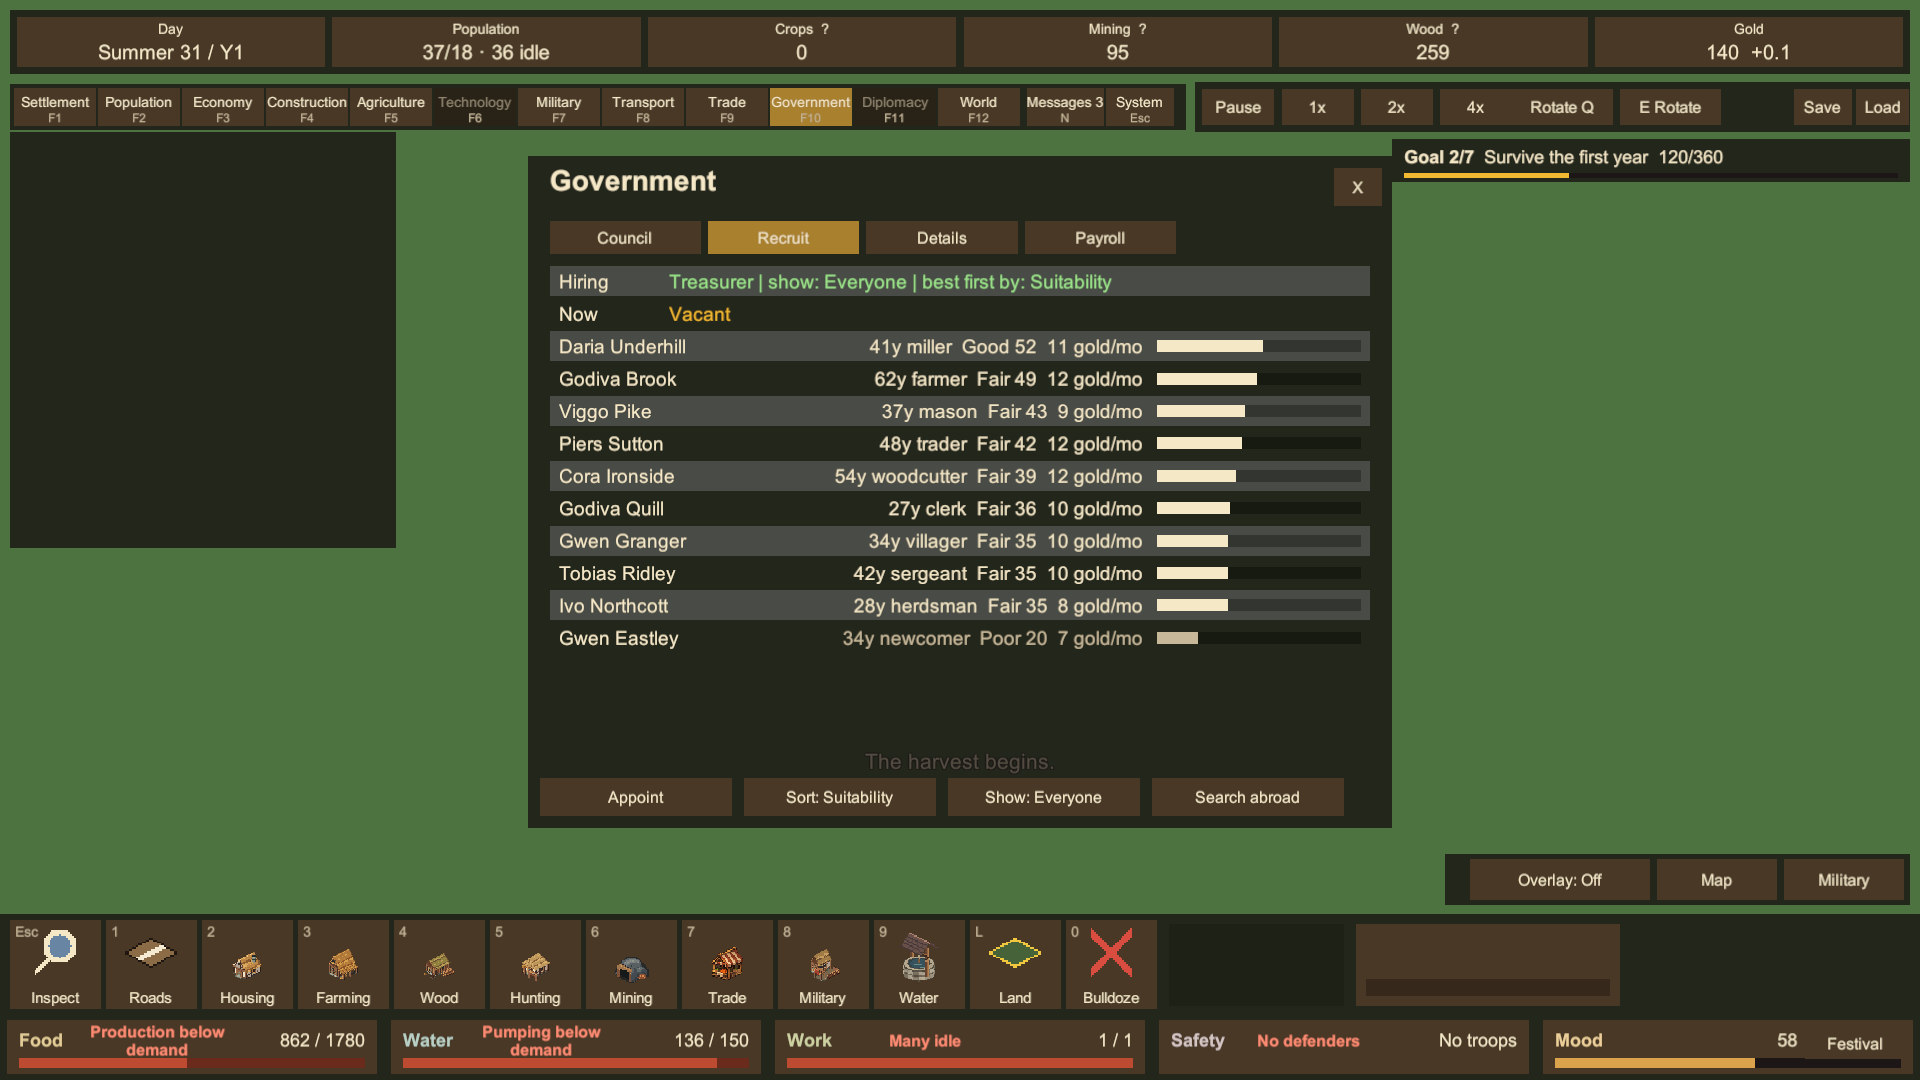
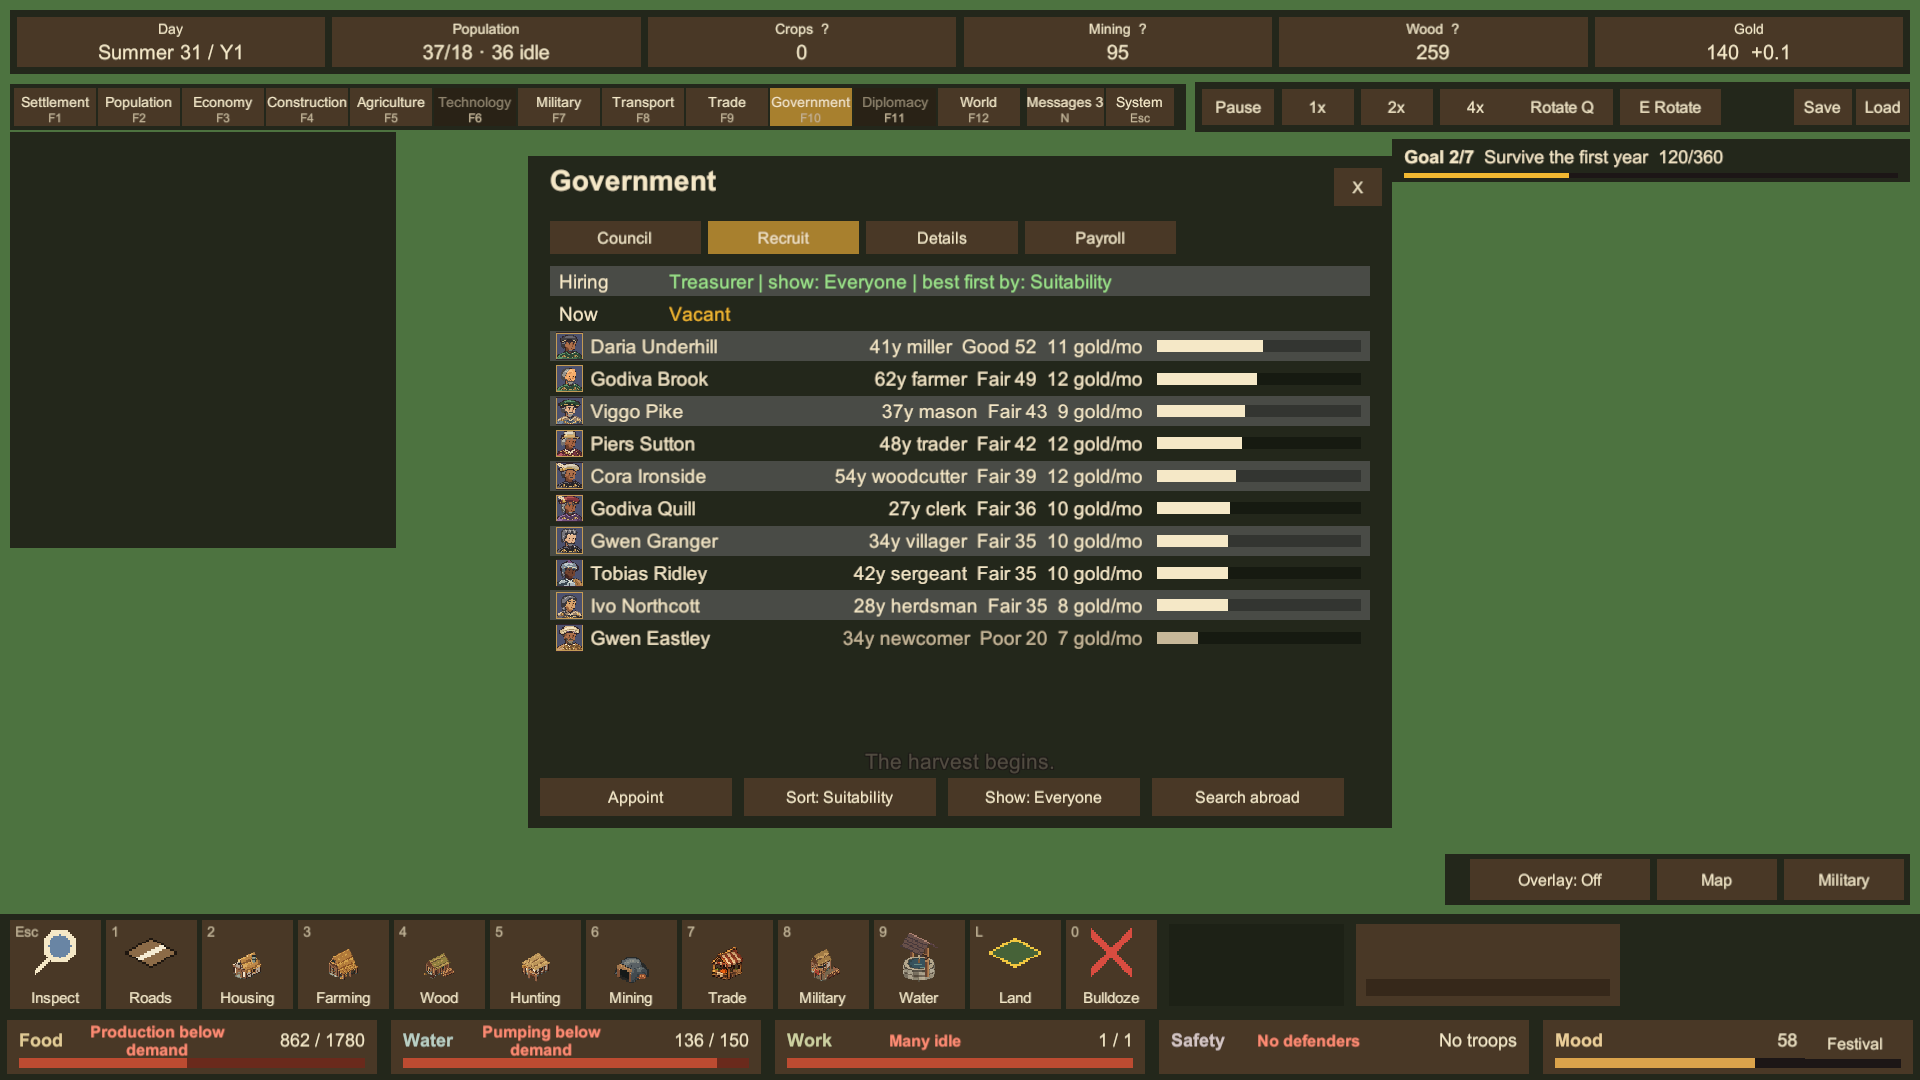
Fix management window rows ignoring clicks; portrait thumbnails in candidate rows

Changed region(s): [[0.2812, 0.3056, 0.375, 0.6111]]

diff --git a/unity/Assets/Scripts/Game/Hud.Management.cs b/unity/Assets/Scripts/Game/Hud.Management.cs
@@ -29,10 +29,21 @@ namespace CrownAndHearth.Game
         readonly List<Text> _mgmtFooterLabels = new List<Text>();
         readonly List<(RectTransform row, Text label, Text value, Image barBack, RectTransform barFill)> _mgmtRows = new List<(RectTransform, Text, Text, Image, RectTransform)>();
         readonly List<string> _mgmtRowIds = new List<string>();
+        readonly List<RawImage> _mgmtThumbs = new List<RawImage>();   // a small portrait at the left of a row that names a person
         readonly List<Action> _footerActions = new List<Action>();
         RectTransform _bannerPanel;
         readonly GovernmentUiState _gov = new GovernmentUiState();   // the Government menu's selection (GovernmentData.cs)
         RawImage _portrait; RectTransform _portraitFrame;
+
+        // test and tool access to the standard window (UiHarness)
+        public int GovernmentSelected => _gov.Selected;
+        public int ManagementRowCount => _mgmtRows.Count;
+        public RectTransform ManagementRow(int i) => _mgmtRows[i].row;
+        public string ManagementRowId(int i) => _mgmtRowIds[i];
+        public bool ManagementRowShown(int i) => _mgmtRows[i].row.gameObject.activeInHierarchy;
+        public Canvas HudCanvas => GetComponentInChildren<Canvas>();
+        public bool PortraitShown => _portraitFrame != null && _portraitFrame.gameObject.activeSelf;
+        public bool ManagementRowThumbShown(int i) => _mgmtThumbs[i].gameObject.activeSelf;
 
         /// <summary>Open the Government menu on a tab with a post and a person selected (links from reports and notices use this).</summary>
         public void OpenGovernment(int tab, Post post, int selected = 0)
@@ -95,7 +106,7 @@ namespace CrownAndHearth.Game
                 float top = -92 - r * 27;
                 row.anchorMin = new Vector2(0, 1); row.anchorMax = Vector2.one; row.offsetMin = new Vector2(18, top - 25); row.offsetMax = new Vector2(-18, top);
                 var back = new GameObject("Stripe", typeof(RectTransform), typeof(Image)).GetComponent<Image>(); back.transform.SetParent(row, false);
-                Stretch(back.rectTransform, Vector2.zero, Vector2.zero); back.color = new Color(1, 1, 1, r % 2 == 0 ? 0.05f : 0.0f); back.raycastTarget = false;
+                Stretch(back.rectTransform, Vector2.zero, Vector2.zero); back.color = new Color(1, 1, 1, r % 2 == 0 ? 0.05f : 0.0f); back.raycastTarget = true;   // the row's Button needs a graphic that takes clicks (it was false, so no row could ever be clicked)
                 int rowIdx = r; var rb = back.gameObject.AddComponent<Button>(); rb.transition = UnityEngine.UI.Selectable.Transition.None; rb.onClick.AddListener(() => RowClicked(rowIdx));
                 _mgmtRowIds.Add(null);
                 var label = MakeText(row, "Label", 16, TextAnchor.MiddleLeft); Stretch(label.rectTransform, new Vector2(8, 0), new Vector2(-8, 0));
@@ -105,6 +116,9 @@ namespace CrownAndHearth.Game
                 barBack.color = new Color(0, 0, 0, 0.5f); barBack.raycastTarget = false;
                 var fill = new GameObject("Fill", typeof(RectTransform), typeof(Image)).GetComponent<Image>(); fill.transform.SetParent(br, false);
                 fill.color = Pulse; fill.raycastTarget = false;
+                var thumb = new GameObject("Thumb", typeof(RectTransform), typeof(RawImage)).GetComponent<RawImage>(); thumb.transform.SetParent(row, false);
+                var thr = thumb.rectTransform; thr.anchorMin = thr.anchorMax = new Vector2(0, 0.5f); thr.pivot = new Vector2(0, 0.5f); thr.sizeDelta = new Vector2(23, 23); thr.anchoredPosition = new Vector2(5, 0);
+                thumb.raycastTarget = false; thumb.gameObject.SetActive(false); _mgmtThumbs.Add(thumb);
                 _mgmtRows.Add((row, label, value, barBack, fill.rectTransform));
             }
             _portraitFrame = MakePanel(_mgmtWin, "PortraitFrame", Vector2.one, Vector2.one, new Vector2(-130, -204), new Vector2(-22, -98));
@@ -391,6 +405,10 @@ namespace CrownAndHearth.Game
                 if (!has) continue;
                 var row = rows[r];
                 ui.label.text = row.Label; ui.value.text = row.Value;
+                var who = row.PortraitId != 0 ? w.Characters.Get(row.PortraitId) : null;   // portrait thumbnail (cached textures, drawn on first use)
+                var thumbTex = who != null ? CharacterPortraits.Texture(who, w.Day) : null;
+                _mgmtThumbs[r].gameObject.SetActive(thumbTex != null); if (thumbTex != null) _mgmtThumbs[r].texture = thumbTex;
+                ui.label.rectTransform.offsetMin = new Vector2(thumbTex != null ? 34 : 8, 0);
                 var col = row.Tone == Tone.Bad ? BadInk : row.Tone == Tone.Warn ? Pulse : row.Tone == Tone.Good ? new Color(0.62f, 0.9f, 0.55f) : row.Tone == Tone.Dim ? Dim : Ink;
                 ui.value.color = col;
                 bool wide = row.Wide;

diff --git a/unity/Assets/Scripts/Game/UiHarness.cs b/unity/Assets/Scripts/Game/UiHarness.cs
@@ -1,0 +1,64 @@
+// Drives the real Hud the way a mouse does, for tests and the screenshot tool: puts the canvas under a camera and clicks at a rectangle's centre
+// (finding what is under the point and running the click handler above it). If a row cannot be hit (its graphic ignores raycasts, or something
+// sits on top of it), this reports that instead of calling the handler directly.
+using System.Collections.Generic;
+using UnityEngine;
+using UnityEngine.EventSystems;
+using UnityEngine.UI;
+
+namespace CrownAndHearth.Game
+{
+    public sealed class UiClickResult
+    {
+        public string Hit;          // name of the topmost thing under the point, null if nothing
+        public bool Delivered;      // a click handler was found and run
+        public override string ToString() => $"hit={Hit ?? "nothing"} delivered={Delivered}";
+    }
+
+    public static class UiHarness
+    {
+        /// <summary>Put the Hud's canvas under a camera rendering into a texture of this size (what the screenshot tool does), so raycasts work without a window.</summary>
+        public static Camera Attach(GameObject hudRoot, int width, int height, float uiScale = 1f)
+        {
+            var canvas = hudRoot.GetComponentInChildren<Canvas>();
+            var camGo = new GameObject("UiHarnessCam"); var cam = camGo.AddComponent<Camera>();
+            cam.clearFlags = CameraClearFlags.SolidColor; cam.orthographic = true; cam.nearClipPlane = 0.1f; cam.farClipPlane = 10;
+            var rt = new RenderTexture(width, height, 24, RenderTextureFormat.ARGB32); cam.targetTexture = rt;
+            canvas.renderMode = RenderMode.ScreenSpaceCamera; canvas.worldCamera = cam; canvas.planeDistance = 1;
+            var scaler = canvas.GetComponent<CanvasScaler>();
+            scaler.uiScaleMode = CanvasScaler.ScaleMode.ConstantPixelSize;
+            scaler.scaleFactor = Mathf.Pow(2f, Mathf.Lerp(Mathf.Log(width / 1600f, 2f), Mathf.Log(height / 900f, 2f), 0.5f)) * uiScale;
+            Canvas.ForceUpdateCanvases(); LayoutRebuilder.ForceRebuildLayoutImmediate((RectTransform)canvas.transform); Canvas.ForceUpdateCanvases();
+            return cam;
+        }
+
+        public static void Detach(GameObject hudRoot, Camera cam)
+        {
+            if (cam == null) return;
+            var rt = cam.targetTexture; cam.targetTexture = null;
+            if (rt != null) Object.DestroyImmediate(rt);
+            Object.DestroyImmediate(cam.gameObject);
+            foreach (var es in Object.FindObjectsByType<EventSystem>(FindObjectsSortMode.None)) if (es.name == "UiHarnessEventSystem") Object.DestroyImmediate(es.gameObject);
+        }
+
+        /// <summary>Click at the centre of a rectangle the way the canvas's raycaster would: among the active graphics that take raycasts and contain the point, the one drawn last
+        /// (hierarchy order is draw order) is hit, and the click goes to the nearest handler at or above it. The real GraphicRaycaster only works once a rendering device has
+        /// ordered the canvas (its depth is -1 until then), so this repeats its rule over the same graphics; a row whose graphics ignore raycasts, or that something covers, is
+        /// reported as not delivered.</summary>
+        public static UiClickResult ClickCentre(Canvas canvas, Camera cam, RectTransform target)
+        {
+            var es = Object.FindFirstObjectByType<EventSystem>();
+            if (es == null) { var go = new GameObject("UiHarnessEventSystem", typeof(EventSystem)); es = go.GetComponent<EventSystem>(); }
+            Vector2 screen = RectTransformUtility.WorldToScreenPoint(cam, target.TransformPoint(target.rect.center));
+            var ped = new PointerEventData(es) { position = screen, button = PointerEventData.InputButton.Left, clickCount = 1 };
+            GameObject top = null;
+            foreach (var g in canvas.GetComponentsInChildren<Graphic>(false))   // pre-order: parents first, later siblings after earlier ones = draw order
+                if (g.raycastTarget && g.canvasRenderer != null && !g.canvasRenderer.cull && g.color.a >= 0f && RectTransformUtility.RectangleContainsScreenPoint(g.rectTransform, screen, cam)) top = g.gameObject;
+            var result = new UiClickResult { Hit = top != null ? top.name : null };
+            if (top == null) return result;
+            var handler = ExecuteEvents.GetEventHandler<IPointerClickHandler>(top);
+            if (handler != null) { ped.pointerPress = handler; ExecuteEvents.Execute(handler, ped, ExecuteEvents.pointerClickHandler); result.Delivered = true; }
+            return result;
+        }
+    }
+}

diff --git a/unity/Assets/Tests/EditMode/GovernmentClickTests.cs b/unity/Assets/Tests/EditMode/GovernmentClickTests.cs
@@ -1,0 +1,73 @@
+using System.Collections.Generic;
+using System.Linq;
+using CrownAndHearth.Game;
+using CrownAndHearth.Game.UI;
+using CrownAndHearth.Sim;
+using NUnit.Framework;
+using UnityEngine;
+
+namespace CrownAndHearth.Tests
+{
+    // Clicks go through the real Hud: its canvas's GraphicRaycaster finds what is under the point and the click handler it finds runs (UiHarness).
+    public class GovernmentClickTests
+    {
+        GameObject _go; Hud _hud; Camera _cam; World _w;
+
+        [SetUp]
+        public void Up()
+        {
+            _w = new World(3, TerrainStyle.Ranges, Relief.Upland, WaterPreset.Lakeside); _w.StartCampaign(); _w.Tick(); _w.Era = 3; _w.ResAmt[Res.Gold] = 500;
+            for (int i = 0; i < 8; i++) _w.Characters.Add(CharacterGenerator.Create(_w.Characters.NextId, _w.CharacterPool(), 7000 + i, _w.Day, (Background)(i % 7), 25, 55));
+            _go = new GameObject("HudClickTest"); _hud = _go.AddComponent<Hud>();
+            _hud.Build(GameController.Tools, GameController.Cats, new ArtLibrary());
+            _hud.SetSettlement(_w);
+            _hud.RefreshWorkforce(_w); _hud.RefreshTownMenus(_w);   // the game does these every frame
+            _cam = UiHarness.Attach(_go, 1920, 1080);
+        }
+
+        [TearDown]
+        public void Down() { UiHarness.Detach(_go, _cam); Object.DestroyImmediate(_go); }
+
+        int FirstRow(string prefix)
+        {
+            for (int i = 0; i < _hud.ManagementRowCount; i++)
+                if (_hud.ManagementRowShown(i) && _hud.ManagementRowId(i) != null && _hud.ManagementRowId(i).StartsWith(prefix)) return i;
+            return -1;
+        }
+
+        [Test]
+        public void ClickingACandidateRowSelectsThemAndOpensTheirDetails()
+        {
+            _hud.OpenGovernment(1, Post.Treasurer); _hud.SetSettlement(_w);
+            int row = FirstRow("gov:cand:"); Assert.That(row, Is.GreaterThanOrEqualTo(0), "the Recruit tab lists candidates");
+            int id = int.Parse(_hud.ManagementRowId(row).Substring("gov:cand:".Length));
+            Assert.That(_hud.ManagementRowThumbShown(row), Is.True, "each candidate row carries a portrait thumbnail");
+            var res = UiHarness.ClickCentre(_hud.HudCanvas, _cam, _hud.ManagementRow(row));
+            Assert.That(res.Delivered, Is.True, "a click on the row reaches a handler: " + res);
+            _hud.SetSettlement(_w);
+            Assert.That(_hud.GovernmentSelected, Is.EqualTo(id));
+            Assert.That(_hud.UI.Tab, Is.EqualTo(2), "it jumps to Details");
+            Assert.That(_hud.PortraitShown, Is.True, "with the portrait");
+        }
+
+        [Test]
+        public void ClickingACouncilPostOpensRecruitOrTheHolder()
+        {
+            _hud.OpenGovernment(0, Post.Chancellor); _hud.SetSettlement(_w);
+            int row = FirstRow("gov:post:Treasurer"); Assert.That(row, Is.GreaterThanOrEqualTo(0));
+            Assert.That(UiHarness.ClickCentre(_hud.HudCanvas, _cam, _hud.ManagementRow(row)).Delivered, Is.True);
+            _hud.SetSettlement(_w);
+            Assert.That(_hud.UI.Tab, Is.EqualTo(1), "a vacant post opens the recruit list");
+        }
+
+        [Test]
+        public void ConstructionToolRowsAreClickableToo()
+        {
+            _hud.ToggleMenu(MenuId.Construction); _hud.SetSettlement(_w);
+            int row = -1;
+            for (int i = 0; i < _hud.ManagementRowCount; i++) if (_hud.ManagementRowShown(i) && !string.IsNullOrEmpty(_hud.ManagementRowId(i))) { row = i; break; }
+            Assert.That(row, Is.GreaterThanOrEqualTo(0));
+            Assert.That(UiHarness.ClickCentre(_hud.HudCanvas, _cam, _hud.ManagementRow(row)).Delivered, Is.True);
+        }
+    }
+}

diff --git a/unity/Assets/Scripts/Game/UI/GovernmentData.cs b/unity/Assets/Scripts/Game/UI/GovernmentData.cs
@@ -58,7 +58,7 @@ namespace CrownAndHearth.Game.UI
             {
                 var row = new Row { Label = d.Title, Id = Prefix + "post:" + d.Id, Bar = -1 };
                 var holder = w.PostHolder(d.Id);
-                if (holder != null) { row.Value = $"{holder.Name}, {holder.AgeYears(w.Day)}  ({Sal(holder.MonthlySalary)})"; row.Tone = Tone.Normal; }
+                if (holder != null) { row.Value = $"{holder.Name}, {holder.AgeYears(w.Day)}  ({Sal(holder.MonthlySalary)})"; row.Tone = Tone.Normal; row.PortraitId = holder.Id; }
                 else if (Positions.LockedReason(d.Id, w.Era) is string why) { row.Value = why; row.Tone = Tone.Dim; }
                 else if (d.Id == Post.Governor) { row.Value = "No other settlement of yours yet"; row.Tone = Tone.Dim; }
                 else { row.Value = "Vacant: click to recruit"; row.Tone = Tone.Warn; }
@@ -95,7 +95,7 @@ namespace CrownAndHearth.Game.UI
                 {
                     Label = (c.C.Id == s.Selected ? "> " : "") + c.C.Name,
                     Value = $"{src}{c.C.AgeYears(w.Day)}y {c.C.Occupation.ToLower()}  {c.Rating} {c.Suitability}  {Sal(c.Salary)}",
-                    Id = Prefix + "cand:" + c.C.Id, Bar = c.Suitability / 100f,
+                    Id = Prefix + "cand:" + c.C.Id, Bar = c.Suitability / 100f, PortraitId = c.C.Id,
                     Tone = c.Suitability >= 65 ? Tone.Good : c.Suitability < 35 ? Tone.Dim : Tone.Normal,
                 });
             }
@@ -143,7 +143,7 @@ namespace CrownAndHearth.Game.UI
                 {
                     Label = $"{c.Post}: {c.Name}",
                     Value = $"{Sal(c.MonthlySalary)} | {c.Pay} pay | loyalty {c.Loyalty}" + (c.MissedPayments > 0 ? $" | {c.MissedPayments} unpaid" : ""),
-                    Id = Prefix + "pay:" + c.Id, Bar = -1, Tone = c.MissedPayments > 0 ? Tone.Bad : c.Loyalty <= 30 ? Tone.Warn : Tone.Normal,
+                    Id = Prefix + "pay:" + c.Id, Bar = -1, PortraitId = c.Id, Tone = c.MissedPayments > 0 ? Tone.Bad : c.Loyalty <= 30 ? Tone.Warn : Tone.Normal,
                 });
             if (rows.Count > 2) rows.Add(new Row { Label = "", Value = "Click a row to change that person's pay: Low (cheaper, loyalty falls), Standard, Generous (dearer, loyalty rises).", Wide = true, Tone = Tone.Dim, Bar = -1 });
             return rows;

diff --git a/unity/Assets/Scripts/Game/UI/ManagementData.cs b/unity/Assets/Scripts/Game/UI/ManagementData.cs
@@ -22,6 +22,7 @@ namespace CrownAndHearth.Game.UI
         public bool Wide;       // a sentence: left-aligned value, narrow label column
         public string Id;       // a tool id: clicking the row picks that tool (Construction)
         public float RightPad;  // keep the value this far from the right edge (room for a portrait)
+        public int PortraitId;  // a character id: show that person's portrait as a thumbnail at the left of the row
         public static Row Of(string label, string value, Tone tone = Tone.Normal, float bar = -1f) => new Row { Label = label, Value = value, Tone = tone, Bar = bar };
     }
 
